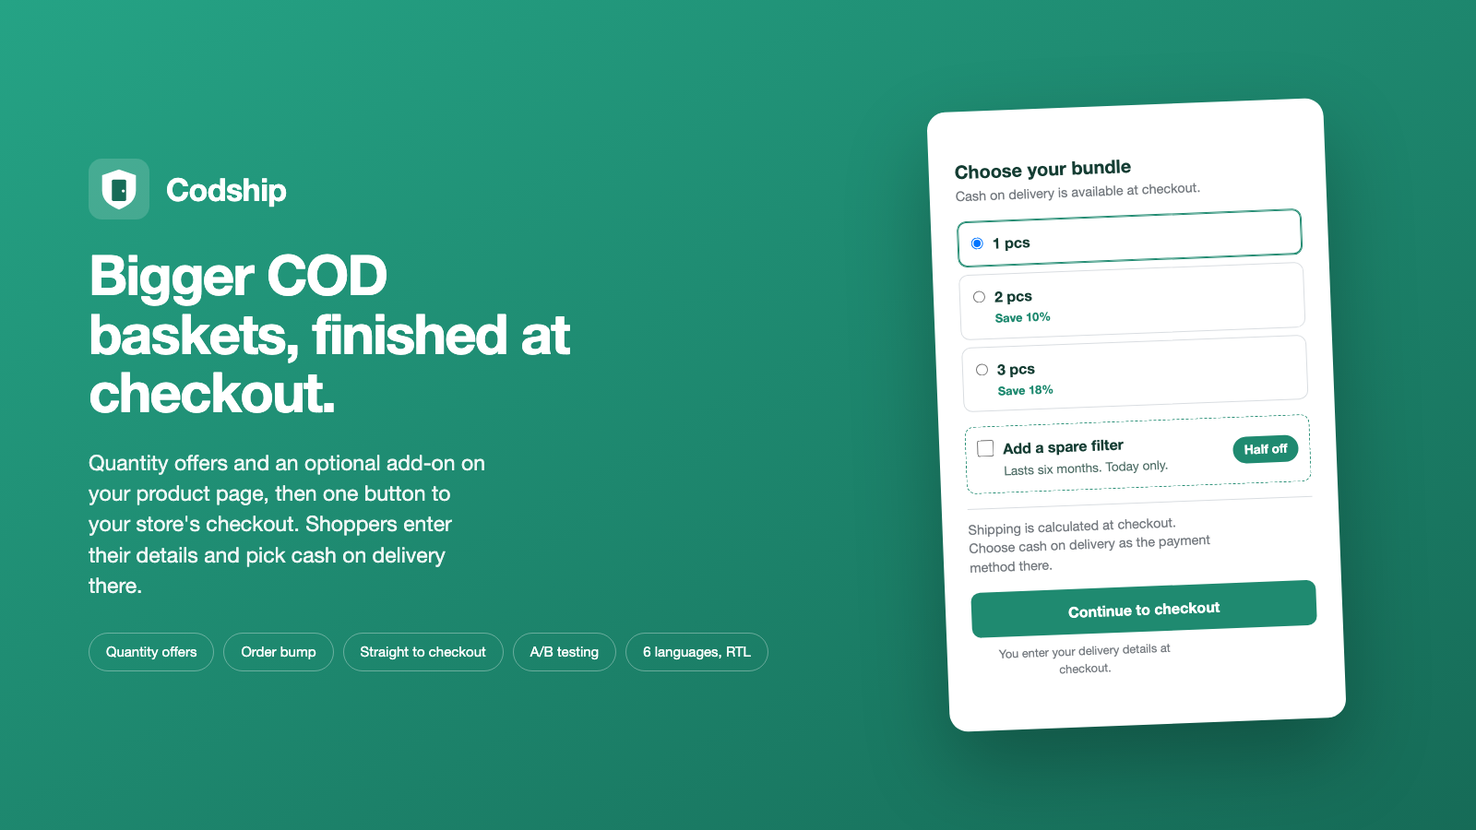
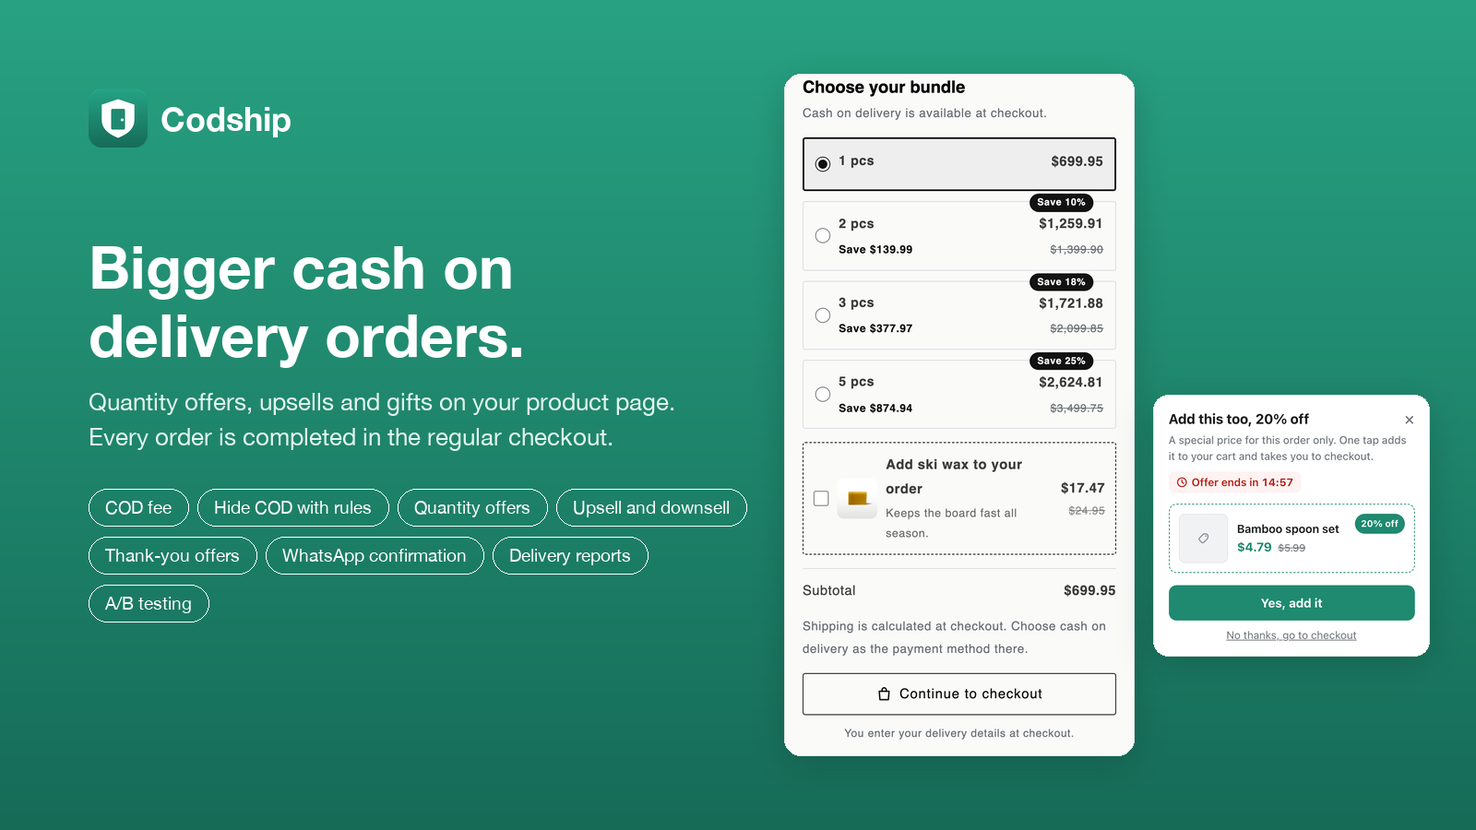
Site: güncel planlar, gerçek ekranlardan yeni görseller, Instagram @codship.app

diff --git a/index.html b/index.html
@@ -4,11 +4,11 @@
 <meta charset="utf-8">
 <meta name="viewport" content="width=device-width, initial-scale=1">
 <title>Codship — Kapıda ödeme mağazaları için adet teklifleri ve upsell</title>
-<meta name="description" content="Shopify ürün sayfanıza teklif bloğu: adet indirimleri, isteğe bağlı sipariş eki ve tek düğmeyle Shopify kasası. Müşteri bilgilerini ve kapıda ödemeyi kasada girer.">
+<meta name="description" content="Shopify ürün sayfanıza teklif bloğu: adet indirimleri, isteğe bağlı sipariş eki ve tek düğmeyle Shopify ödeme sayfası. Müşteri bilgilerini orada girer, kapıda ödemeyi orada seçer.">
 <link rel="icon" href="gorsel/simge-32.png" sizes="32x32">
 <link rel="apple-touch-icon" href="gorsel/simge-192.png">
 <meta property="og:title" content="Codship — Shopify için kapıda ödeme teklifleri ve upsell">
-<meta property="og:description" content="Kapıda ödeme sepetini büyütün; sipariş Shopify kasasında biter.">
+<meta property="og:description" content="Kapıda ödeme sepetini büyütün; sipariş Shopify ödeme sayfasında tamamlanır.">
 <meta property="og:image" content="gorsel/tr/00-kapak.png">
 <meta property="og:type" content="website">
 <style>
@@ -464,7 +464,7 @@
   .telif{margin-top:40px;padding-top:24px;border-top:1px solid var(--cizgi);font-size:13.5px}
 
   /* ── telefonda yan yana kaydırma ────────────────────────
-     Altı özellik kartı ve dört plan, telefonda alt alta dizilince
+     Altı özellik kartı ve üç plan, telefonda alt alta dizilince
      bölümler ekranlarca uzuyordu; kullanıcı fiyatları görmek için
      uzun uzun kaydırıyordu. Burada yatay kaydırmaya çevriliyor.
 
@@ -539,11 +539,11 @@
       <span class="nokta"></span>
       <span data-t="hero.badge">Kapıda ödemeyle satan Shopify mağazaları için</span>
     </div>
-    <h1 data-t="hero.h1">Kapıda ödeme sepetini büyütün. <br>Sipariş Shopify kasasında biter.</h1>
+    <h1 data-t="hero.h1">Kapıda ödeme sepetini büyütün. <br>Sipariş Shopify ödeme sayfasında tamamlanır.</h1>
     <p class="alt" data-t="hero.sub">
       Codship ürün sayfanıza bir teklif bloğu koyar: adet indirimleri ve
       isteğe bağlı bir sipariş eki. Tek düğme alıcıyı seçtiği teklifle
-      Shopify kasasına götürür; alıcı bilgilerini ve kapıda ödemeyi orada
+      Shopify ödeme sayfasına götürür; alıcı bilgilerini ve kapıda ödemeyi orada
       girer.
     </p>
     <div class="cta">
@@ -569,8 +569,8 @@
     <div class="telefon">
       <div class="ada"></div>
       <div class="telefon-ic">
-        <p class="t-ust" data-t="tel.ust">Türkiye'nin her yerine kapıda ödeme 🚚</p>
-        <h3 class="t-baslik" data-t="tel.baslik">Paketini seç</h3>
+        <p class="t-ust" data-t="tel.ust">Türkiye'nin her yerine kapıda ödeme</p>
+        <h3 class="t-baslik" data-t="tel.baslik">Paketinizi seçin</h3>
 
         <div class="t-alan g1">
           <span class="t-ikon">◉</span>
@@ -587,18 +587,18 @@
 
         <div class="t-ek g6">
           <span class="t-kutu"></span>
-          <span class="t-ek-yaz"><b data-t="tel.ekAd">Yedek filtre ekle</b>
+          <span class="t-ek-yaz"><b data-t="tel.ekAd">Yedek filtre ekleyin</b>
             <span data-t="tel.ekAlt">Bugüne özel yarı fiyatına</span></span>
           <span class="t-ek-fiyat">99,90&nbsp;₺</span>
         </div>
 
         <div class="t-ozet g7">
-          <div><span data-t="tel.kargo">Kargo</span><span data-t="tel.kargoKasa">Kasada hesaplanır</span></div>
+          <div><span data-t="tel.kargo">Kargo</span><span data-t="tel.kargoKasa">Ödeme adımında hesaplanır</span></div>
           <div class="t-toplam"><span data-t="tel.toplam">Ara toplam</span><strong>699,90 ₺</strong></div>
         </div>
 
-        <div class="t-buton g8" data-t="tel.buton">Kasaya devam et</div>
-        <p class="t-guven g8" data-t="tel.guven">Teslimat bilgilerinizi Shopify kasasında girersiniz.</p>
+        <div class="t-buton g8" data-t="tel.buton">Sipariş Ver</div>
+        <p class="t-guven g8" data-t="tel.guven">Teslimat bilgilerinizi bir sonraki adımda gireceksiniz.</p>
       </div>
     </div>
   </div>
@@ -615,18 +615,18 @@
   <div class="kap">
     <div class="baslik gorun">
       <h2 data-t="feat.title">Kapıda ödeme yapan bir mağazanın ihtiyacı olan her şey</h2>
-      <p data-t="feat.sub">Teklif ürün sayfasında seçilir, sipariş Shopify kasasında biter; hangi kampanyanın teslim edilen sipariş getirdiğini görürsünüz.</p>
+      <p data-t="feat.sub">Teklif ürün sayfasında seçilir, sipariş Shopify ödeme sayfasında tamamlanır; hangi kampanyanın teslim edilen sipariş getirdiğini görürsünüz.</p>
     </div>
     <div class="izgara">
       <div class="kart gorun">
         <div class="ikon">◼</div>
         <h3 data-t="feat.f1t">Ürün sayfasında teklif bloğu</h3>
-        <p data-t="feat.f1p">Paketler ve tek bir "Kasaya devam et" düğmesi. Blok kişisel bilgi istemez; alıcı adını, adresini ve kapıda ödemeyi Shopify kasasında girer.</p>
+        <p data-t="feat.f1p">Paketler ve tek bir "Sipariş Ver" düğmesi. Blok kişisel bilgi istemez; alıcı adını, adresini ve kapıda ödemeyi Shopify ödeme sayfasında girer.</p>
       </div>
       <div class="kart gorun">
         <div class="ikon">↑</div>
         <h3 data-t="feat.f2t">Adet indirimi ve sipariş eki</h3>
-        <p data-t="feat.f2p">Blokta adet indirimleri ve işaretsiz gelen bir sipariş eki. Seçimi alıcı yapar; indirim Shopify kasasında uygulanır.</p>
+        <p data-t="feat.f2p">Blokta adet indirimleri ve işaretsiz gelen bir sipariş eki. Seçimi alıcı yapar; indirim Shopify ödeme sayfasında uygulanır.</p>
       </div>
       <div class="kart gorun">
         <div class="ikon">⬢</div>
@@ -645,8 +645,8 @@
       </div>
       <div class="kart gorun">
         <div class="ikon">文</div>
-        <h3 data-t="feat.f6t">Altı dil, sağdan sola dahil</h3>
-        <p data-t="feat.f6p">Türkçe, İngilizce, Arapça, Fransızca, İspanyolca ve İtalyanca — sağdan sola yazılan diller düzgün çalışır.</p>
+        <h3 data-t="feat.f6t">22 dil, sağdan sola dahil</h3>
+        <p data-t="feat.f6p">Blok vitrininizin dilinde açılır: Türkçe, İngilizce, Arapça, Almanca, Fransızca, İspanyolca, İtalyanca, Japonca ve diğerleri — sağdan sola yazılan diller düzgün çalışır. Yönetim paneli 21 dilde.</p>
       </div>
     </div>
   </div>
@@ -658,9 +658,9 @@
     <div class="ikili">
       <img class="gorun" src="gorsel/tr/01-blok.png" data-gorsel="01-blok.png" data-alt="alt.form" alt="Ürün sayfasındaki teklif bloğu" width="1600" height="900">
       <div class="gorun">
-        <h2 data-t="form.title">Teklif ürün sayfasında. Sipariş Shopify kasasında.</h2>
-        <p class="govde" data-t="form.p1">Alıcı ürün sayfasında paketini seçer. "Kasaya devam et" seçilen ürünler ve indirimle bir Shopify sepeti kurar ve Shopify kasasını açar; alıcı adını, adresini orada girer, kapıda ödemeyi seçip siparişi kendisi verir.</p>
-        <p class="govde" data-t="form.p2">Sipariş Shopify kasasında oluştuğu için yönetim panelinizde sıradan bir sipariş olarak görünür — aynı liste, aynı kargolama, aynı raporlar. Kargo ücretini Shopify ayarlarınız hesaplar.</p>
+        <h2 data-t="form.title">Teklif ürün sayfasında. Sipariş Shopify ödeme sayfasında.</h2>
+        <p class="govde" data-t="form.p1">Alıcı ürün sayfasında paketini seçer. "Sipariş Ver" seçilen ürünler ve indirimle bir Shopify sepeti kurar ve Shopify ödeme sayfasını açar; alıcı adını, adresini orada girer, kapıda ödemeyi seçip siparişi kendisi verir.</p>
+        <p class="govde" data-t="form.p2">Sipariş Shopify ödeme sayfasında oluştuğu için yönetim panelinizde sıradan bir sipariş olarak görünür — aynı liste, aynı kargolama, aynı raporlar. Kargo ücretini Shopify ayarlarınız hesaplar.</p>
       </div>
     </div>
   </div>
@@ -670,8 +670,8 @@
   <div class="kap">
     <div class="ikili">
       <div class="gorun">
-        <h2 data-t="bump.title">Kasadan önce sepeti büyütün</h2>
-        <p class="govde" data-t="bump.p1">Adet indirimleri blokta durur; varsayılan 1 adettir, iki tane almak tek dokunuş. Hemen altında işaretsiz bir sipariş eki çıkar. Alıcının seçtikleri tek sepette kasaya gider — tek teslimat, tek tahsilat.</p>
+        <h2 data-t="bump.title">Ödeme adımından önce sepeti büyütün</h2>
+        <p class="govde" data-t="bump.p1">Adet indirimleri blokta durur; varsayılan 1 adettir, iki tane almak tek dokunuş. Hemen altında işaretsiz bir sipariş eki çıkar. Alıcının seçtikleri tek sepette ödeme sayfasına gider — tek teslimat, tek tahsilat.</p>
       </div>
       <img class="gorun" src="gorsel/tr/03-teklif.png" data-gorsel="03-teklif.png" data-alt="alt.teklif" alt="Adet indirimleri ve sipariş eklentisi" width="1600" height="900">
     </div>
@@ -686,7 +686,7 @@
   <div class="kap">
     <div class="baslik gorun">
       <h2 data-t="kapsama.title">Kapıda ödemenin yoğun olduğu pazarlar için hazır</h2>
-      <p data-t="kapsama.sub">Blok vitrininizin diline göre altı dilde gelir; Arapçada sağdan sola yerleşim de düzgün çalışır.</p>
+      <p data-t="kapsama.sub">Blok vitrininizin diline göre 22 dilde gelir; Arapçada sağdan sola yerleşim de düzgün çalışır.</p>
     </div>
 
     <ul class="diller gorun" aria-label="Bloğun dilleri">
@@ -743,7 +743,7 @@
   <div class="kap">
     <div class="baslik gorun">
       <h2 data-t="price.title">Fiyatlandırma</h2>
-      <p data-t="price.sub">Shopify tarafından, USD olarak, mevcut Shopify faturanıza eklenir. Ücretli planlarda 14 gün ücretsiz deneme var.</p>
+      <p data-t="price.sub">Shopify tarafından, USD olarak, mevcut Shopify faturanıza eklenir. Yıllık ödemede %25 indirim: Growth yılda $89.99, Pro yılda $251.99.</p>
     </div>
     <div class="fiyatlar">
       <div class="plan gorun">
@@ -751,10 +751,15 @@
         <div class="ucret">$0</div>
         <div class="adet" data-t="price.p0q">Ayda 60 sipariş</div>
         <ul>
-          <li data-t="price.p0f1">Kasaya devam düğmeli teklif bloğu</li>
-          <li data-t="price.p0f2">Adet indirimleri</li>
+          <li data-t="price.p0f1">“Sipariş Ver” düğmeli teklif bloğu</li>
+          <li data-t="price.p0f2">Adet teklifleri ve paket kartları</li>
           <li data-t="price.p0f3">A/B testi</li>
-          <li data-t="price.p0f4">Altı dilin hepsi</li>
+          <li data-t="price.p0f5">Upsell: ödeme adımı teklifi, downsell, teşekkür sayfası</li>
+          <li data-t="price.p0f6">Sepet tutarına göre hediye ürün</li>
+          <li data-t="price.p0f7">Kapıda ödeme ücreti ve sınırlama kuralları</li>
+          <li data-t="price.p0f8">WhatsApp sipariş onayı, otomatik sipariş etiketi</li>
+          <li data-t="price.p0f9">Canlı destek sohbeti</li>
+          <li data-t="price.p0f4">Blok 22 dilde</li>
         </ul>
       </div>
       <div class="plan one gorun">
@@ -765,31 +770,23 @@
         <ul>
           <li data-t="price.p1f1">Ücretsiz plandaki her şey</li>
           <li data-t="price.p1f2">Sipariş eki</li>
+          <li data-t="price.p1f6">Paketlerde hediye ürün ve özel renkler</li>
           <li data-t="price.p1f5">Sunucudan dönüşüm olayı (Meta, TikTok)</li>
         </ul>
       </div>
       <div class="plan gorun">
         <div class="ad">Pro</div>
         <div class="ucret">$27.99 <span data-t="price.mo2">/ay</span></div>
-        <div class="adet" data-t="price.p2q">Ayda 10.000 sipariş</div>
+        <div class="adet" data-t="price.p2q">Sınırsız sipariş</div>
         <ul>
           <li data-t="price.p2f1">Growth'taki her şey</li>
           <li data-t="price.p2f5">Öncelikli destek</li>
-        </ul>
-      </div>
-      <div class="plan gorun">
-        <div class="ad" data-t="price.p3name">Sınırsız</div>
-        <div class="ucret">$64.99 <span data-t="price.mo3">/ay</span></div>
-        <div class="adet" data-t="price.p3q">Sınırsız sipariş</div>
-        <ul>
-          <li data-t="price.p3f1">Pro'daki her şey</li>
-          <li data-t="price.p3f2">Aşım ücreti yok</li>
-          <li data-t="price.p3f3">Takip edilecek aylık tavan yok</li>
+          <li data-t="price.p2f6">Aşım ücreti yok</li>
         </ul>
       </div>
     </div>
     <div class="not gorun" style="max-width:760px;margin-inline:auto" data-t="price.note">
-      <b>Aylık sınırın üstünde:</b> ücretli planlarda sipariş başına $0,05, sizi şaşırtamayacak bir tavanla sınırlı. Ücretsiz planda hiçbir ücret alınmaz — sınırın üstünde blok alıcıyı tekliflersiz normal sepet ve kasaya gönderir, yani bizim yüzümüzden satış kaybetmezsiniz.
+      <b>Aylık sınırın üstünde:</b> aylık Growth planında sipariş başına $0,05, sizi şaşırtamayacak bir tavanla sınırlı. Pro'da sipariş sınırı ve aşım ücreti yoktur. Ücretsiz planda ve yıllık planlarda aşım ücreti alınmaz — hak dolunca blok ay sonuna kadar gizlenir, alıcı normal sepet ve ödeme sayfasıyla alışverişe devam eder, yani bizim yüzümüzden satış kaybetmezsiniz.
     </div>
   </div>
 </section>
@@ -801,23 +798,23 @@
     <div class="sss">
       <details open class="gorun">
         <summary data-t="faq.q1">Uygulama müşterilerimin bilgilerini topluyor mu?</summary>
-        <p data-t="faq.a1">Hayır. Blok ad, telefon, e-posta ya da adres istemez. Alıcı bu bilgileri Shopify kasasında, Shopify'ın kendi formunda girer. Uygulama yalnızca sipariş numarasını, tutarı, seçilen teklifi ve teslim sonucunu raporlar için tutar.</p>
+        <p data-t="faq.a1">Hayır. Blok ad, telefon, e-posta ya da adres istemez. Alıcı bu bilgileri Shopify ödeme sayfasında, Shopify'ın kendi formunda girer. Uygulama yalnızca sipariş numarasını, tutarı, seçilen teklifi ve teslim sonucunu raporlar için tutar.</p>
       </details>
       <details class="gorun">
         <summary data-t="faq.q2">Siparişler Shopify'da normal görünmeye devam ediyor mu?</summary>
-        <p data-t="faq.a2">Evet. Siparişi alıcı Shopify kasasında kapıda ödemeyi seçerek verir; Codship sipariş oluşturmaz, yalnızca siparişe etiket ekler. Sipariş listenizde, raporlarınızda ve kargolama akışınızda diğer siparişlerle birebir aynı şekilde görünür.</p>
+        <p data-t="faq.a2">Evet. Siparişi alıcı Shopify ödeme sayfasında kapıda ödemeyi seçerek verir; Codship sipariş oluşturmaz, yalnızca siparişe etiket ekler. Sipariş listenizde, raporlarınızda ve kargolama akışınızda diğer siparişlerle birebir aynı şekilde görünür.</p>
       </details>
       <details class="gorun">
         <summary data-t="faq.q3">Plan sınırıma ulaşırsam ne olur?</summary>
-        <p data-t="faq.a3">Ücretli planda sipariş yine geçer ve $0,05 tutar; bu da bir tavanla sınırlıdır. Ücretsiz planda alıcı tekliflersiz normal sepet ve kasaya devredilir. İki durumda da satış kaybolmaz.</p>
+        <p data-t="faq.a3">Aylık Growth planında sipariş yine geçer ve $0,05 tutar; bu da bir tavanla sınırlıdır. Pro'da sipariş sınırı yoktur. Ücretsiz planda ve yıllık Growth'ta blok ay sonuna kadar gizlenir; alıcı normal sepet ve ödeme sayfasıyla devam eder. İki durumda da satış kaybolmaz.</p>
       </details>
       <details class="gorun">
         <summary data-t="faq.q4">Kapıda ödeme nerede seçiliyor?</summary>
-        <p data-t="faq.a4">Shopify kasasında. Mağazanızın Ödemeler ayarında manuel "Kapıda ödeme" yöntemini açarsınız; alıcı kasada onu seçer. Codship ödeme almaz, sipariş oluşturmaz.</p>
+        <p data-t="faq.a4">Shopify ödeme sayfasında. Mağazanızın Ödemeler ayarında manuel "Kapıda ödeme" yöntemini açarsınız; alıcı ödeme sayfasında onu seçer. Codship ödeme almaz, sipariş oluşturmaz.</p>
       </details>
       <details class="gorun">
         <summary data-t="faq.q5">Türkçe destek var mı?</summary>
-        <p data-t="faq.a5">Evet. Yönetim paneli Türkçe ve İngilizce; alıcılarınızın gördüğü teklif bloğu Türkçe, İngilizce, Arapça, Fransızca, İspanyolca ve İtalyanca. Destek Türkçe yanıtlanır.</p>
+        <p data-t="faq.a5">Evet. Yönetim paneli Türkçe dahil 21 dilde; alıcılarınızın gördüğü teklif bloğu Türkçe ve Arapça dahil 22 dilde. Destek Türkçe yanıtlanır.</p>
       </details>
       <details class="gorun">
         <summary data-t="faq.q6">Nasıl iptal ederim?</summary>
@@ -831,7 +828,7 @@
 <div class="kapanis">
   <div class="kap">
     <h2 data-t="close.title">Aynı müşteriden daha büyük sepet</h2>
-    <p data-t="close.sub">İlk 60 siparişiniz için ücretsiz. Kart yok, telefon görüşmesi yok, kurulum ücreti yok.</p>
+    <p data-t="close.sub">Ayda 60 siparişe kadar ücretsiz. Kart yok, telefon görüşmesi yok, kurulum ücreti yok.</p>
     <a class="btn" href="#fiyat" data-t="close.cta">Shopify'a kur</a>
   </div>
 </div>
@@ -869,7 +866,7 @@
       <div>
         <h4 data-t="foot.contact">İletişim</h4>
         <a href="mailto:info@cod-ship.com">info@cod-ship.com</a>
-        <a href="https://www.instagram.com/codshipp/">Instagram</a>
+        <a href="https://www.instagram.com/codship.app/">Instagram</a>
       </div>
     </div>
     <div class="telif" data-t="foot.copy">
@@ -898,7 +895,7 @@ const EN = {
   "hero.cta1":"Start free — 60 orders a month",
   "hero.cta2":"How it works",
 
-  "tel.ust":"Cash on delivery, nationwide 🚚",
+  "tel.ust":"Cash on delivery, nationwide",
   "tel.baslik":"Choose your bundle",
   "tel.ekAd":"Add a spare filter",
   "tel.ekAlt":"Half price today",
@@ -906,7 +903,7 @@ const EN = {
   "tel.kargoKasa":"Calculated at checkout",
   "tel.toplam":"Subtotal",
   "tel.buton":"Continue to checkout",
-  "tel.guven":"You enter your delivery details in Shopify checkout.",
+  "tel.guven":"You enter your delivery details at checkout.",
 
   "feat.title":"Everything a COD store actually needs",
   "feat.sub":"The offer is picked on the product page, the order is placed in Shopify checkout — and you see which campaigns bring orders that get delivered.",
@@ -920,8 +917,8 @@ const EN = {
   "feat.f4p":"Limit the block by product, collection, price range or country. Shipping is calculated from your Shopify settings.",
   "feat.f5t":"A/B test the block",
   "feat.f5p":"Run two versions against each other. A winner is declared only when the data supports it — not on the first good day.",
-  "feat.f6t":"Six languages, RTL included",
-  "feat.f6p":"Turkish, English, Arabic, French, Spanish and Italian, with right-to-left layouts handled properly.",
+  "feat.f6t":"22 languages, RTL included",
+  "feat.f6p":"The block follows your storefront language: Turkish, English, Arabic, German, French, Spanish, Italian, Japanese and more, with right-to-left layouts handled properly. The admin panel is in 21 languages.",
 
   "form.title":"The offer on the product page. The order in Shopify checkout.",
   "form.p1":"The buyer picks a bundle on the product page. “Continue to checkout” builds a Shopify cart with the chosen products and discount and opens Shopify checkout; the buyer enters their name and address there, chooses cash on delivery and places the order themselves.",
@@ -931,7 +928,7 @@ const EN = {
   "bump.p1":"Quantity tiers sit in the block; one unit is the default and buying two is a single tap. An unticked order bump sits just below. Whatever the buyer picks goes to checkout in one cart — one delivery, one collection.",
 
   "kapsama.title":"Ready for the markets where COD is normal",
-  "kapsama.sub":"The block follows your storefront language in six languages, with proper right-to-left layout for Arabic.",
+  "kapsama.sub":"The block follows your storefront language in 22 languages, with proper right-to-left layout for Arabic.",
   "kapsama.d1":"Türkçe","kapsama.d2":"English","kapsama.d3":"العربية",
   "kapsama.d4":"Français","kapsama.d5":"Español","kapsama.d6":"Italiano",
 
@@ -941,22 +938,23 @@ const EN = {
   "yorum.yok3":"If you'd like to be one of the first, setup is one click and the first 60 orders a month are free.",
 
   "price.title":"Pricing",
-  "price.sub":"Billed by Shopify, in USD, on your existing Shopify invoice. Paid plans include a 14-day free trial.",
+  "price.sub":"Billed by Shopify, in USD, on your existing Shopify invoice. Pay yearly and save 25%: Growth $89.99/year, Pro $251.99/year.",
   "price.badge":"Most stores start here",
-  "price.mo":"/mo","price.mo2":"/mo","price.mo3":"/mo",
+  "price.mo":"/mo","price.mo2":"/mo",
   "price.p0name":"Free","price.p0q":"60 orders a month",
-  "price.p0f1":"Offer block with a checkout button","price.p0f2":"Quantity tiers",
-  "price.p0f3":"A/B testing","price.p0f4":"All six languages",
+  "price.p0f1":"Offer block with a checkout button","price.p0f2":"Quantity offers and bundle cards",
+  "price.p0f3":"A/B testing","price.p0f4":"Block in 22 languages",
+  "price.p0f6":"Free gift at a cart value threshold","price.p0f7":"Cash on delivery fee and limit rules",
+  "price.p0f8":"WhatsApp order confirmation, automatic order tags","price.p0f9":"Live support chat",
+  "price.p0f5":"Upsell: pre-checkout offers, downsell, thank-you page",
   "price.p1q":"420 orders a month",
   "price.p1f1":"Everything in Free","price.p1f2":"Order bumps",
+  "price.p1f6":"Gifts and custom colors in bundles",
   "price.p1f5":"Server-side conversion events (Meta, TikTok)",
-  "price.p2q":"10,000 orders a month",
+  "price.p2q":"Unlimited orders",
   "price.p2f1":"Everything in Growth",
-  "price.p2f5":"Priority support",
-  "price.p3name":"Unlimited","price.p3q":"Unlimited orders",
-  "price.p3f1":"Everything in Pro","price.p3f2":"No overage charges",
-  "price.p3f3":"No monthly ceiling to watch",
-  "price.note":"<b>Above the monthly limit:</b> $0.05 per order on paid plans, capped so it can never surprise you. On the Free plan nothing is charged — above the limit the block simply sends buyers to your normal cart and checkout without the offers, so you never lose a sale because of us.",
+  "price.p2f5":"Priority support","price.p2f6":"No overage charges",
+  "price.note":"<b>Above the monthly limit:</b> $0.05 per order on monthly Growth, capped so it can never surprise you. Pro has no order limit and no overage charges. On the Free plan and on yearly plans there are no overage charges — when the allowance is used up, the block hides until the month ends and buyers carry on with your normal cart and checkout, so you never lose a sale because of us.",
 
   "faq.title":"Questions",
   "faq.q1":"Does the app collect my customers' details?",
@@ -964,11 +962,11 @@ const EN = {
   "faq.q2":"Do orders still appear normally in Shopify?",
   "faq.a2":"Yes. The buyer places the order in Shopify checkout by choosing cash on delivery; Codship does not create orders, it only adds a tag. It shows up in your orders list, your reports and your fulfilment flow exactly like any other order.",
   "faq.q3":"What happens if I hit my plan limit?",
-  "faq.a3":"On a paid plan the order still goes through and costs $0.05, up to a capped amount. On the Free plan the buyer is handed to your normal cart and checkout without the offers. Either way the sale is not lost.",
+  "faq.a3":"On monthly Growth the order still goes through and costs $0.05, up to a capped amount. Pro has no order limit. On the Free plan and on yearly Growth the block hides until the month ends; buyers carry on with your normal cart and checkout. Either way the sale is not lost.",
   "faq.q4":"Where is cash on delivery chosen?",
   "faq.a4":"In Shopify checkout. You turn on the manual “Cash on Delivery” method in your store's Payments settings; the buyer picks it at checkout. Codship takes no payment and creates no orders.",
   "faq.q5":"Do you support Turkish?",
-  "faq.a5":"Yes. The admin panel is in English and Turkish, and the offer block your buyers see is translated into Turkish, English, Arabic, French, Spanish and Italian. Support is answered in Turkish.",
+  "faq.a5":"Yes. The admin panel is available in 21 languages, Turkish included, and the offer block your buyers see in 22, Turkish and Arabic included. Support is answered in Turkish.",
   "faq.q6":"How do I cancel?",
   "faq.a6":"Uninstall the app from your Shopify admin. Shopify cancels the subscription itself; there is nothing to email us about and no notice period.",
 
@@ -986,13 +984,13 @@ const EN = {
   "alt.form":"Offer block on the product page",
   "alt.teklif":"Quantity tiers and an order bump",
 
-  "serit":["Offer block","Shopify checkout","Quantity tiers","Order bump","Delivery-rate report","Six languages"],
+  "serit":["Offer block","Shopify checkout","Quantity tiers","Order bump","Delivery-rate report","22 languages"],
   "tel.k1":"1 pcs",
   "tel.k2":"2 pcs · Save 10%",
   "tel.k3":"3 pcs · Save 18%"
 };
 
-const SERIT_TR = ["Teklif bloğu","Shopify kasası","Adet indirimi","Sipariş eki","Teslim oranı raporu","Altı dil"];
+const SERIT_TR = ["Teklif bloğu","Shopify ödeme sayfası","Adet indirimi","Sipariş eki","Teslim oranı raporu","22 dil"];
 
 /* Türkçe metin zaten HTML'de duruyor; ilk açılışta oradan topluyoruz ki
    sözlüğü iki yerde tutmak zorunda kalmayalım. */
